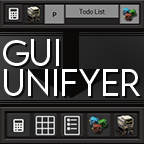
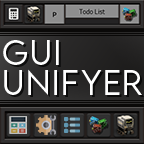
(1.1.0) creative mod support
- Added creative mod
- Mod icon improvement

diff --git a/README.md b/README.md
@@ -1,12 +1,22 @@
 # GUI Unifyer
-Factorio Mod which makes mod buttons look uniform and aligned.
-Continuation of Better_Modbuttons by Dr_Pepper.
+Factorio Mod forcing mod buttons to look uniform and aligned.
+(Continuation of Better_Modbuttons by Dr_Pepper)
 
-Supports Factory Planner, Helmod, Module Inserter, Placeables, Todo List, What Is It Really Used For, and more soon.
+# Supports 
+- Factory Planner
+- Helmod
+- Module Inserter
+- Placeables
+- Todo List
+- What Is It Really Used For
+- Creative Mod
+- ... and more soon.
 
-Current advancement:
+# Current advancement
+Before
 ![before](https://i.imgur.com/Wto8MoZ.png)
 ![after](https://i.imgur.com/UzNccyu.png)
+After
 
 # Installation from Factorio Mod Portal
 Go to https://mods.factorio.com/mod/GUI_Unifyer or download it ingame.
